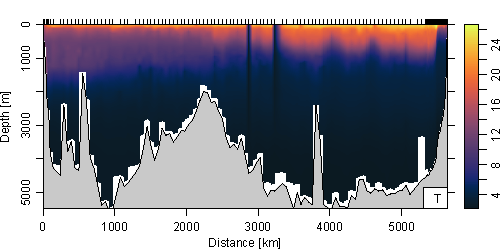
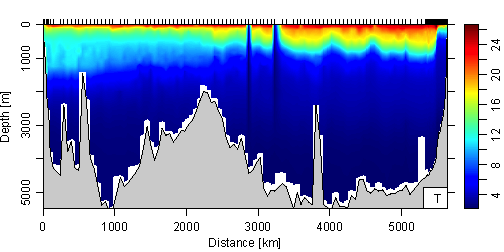
.

diff --git a/_posts/2016-04-25-making-section-plots.md b/_posts/2016-04-25-making-section-plots.md
@@ -57,14 +57,14 @@ Ok, cool. But what about some colors? Use the `ztype='image'` argument!
 
 {% highlight r %}
 plot(section, which='temperature', xtype='distance',
-     ztype='image', zcol=oceColorsTemperature)
+     ztype='image')
 {% endhighlight %}
 
 ![plot of chunk temperature2](/figure/source/2016-04-25-making-section-plots/temperature2-1.png)
 
 ## Finer control over the section plot
 
-To get finer control over the section plot that is possible with the `section` `plot()` method, one trick I will sometimes do is extract the data I want from the section as a gridded matrix, and then plot the matrix directly using the `imagep()` function.
+To get finer control over the section plot than is possible with the `section` `plot()` method, one trick I will sometimes do is extract the data I want from the section as a gridded matrix, and then plot the matrix directly using the `imagep()` function.
 
 First, we "grid" the section so that all the stations comprise the same pressure levels:
 
